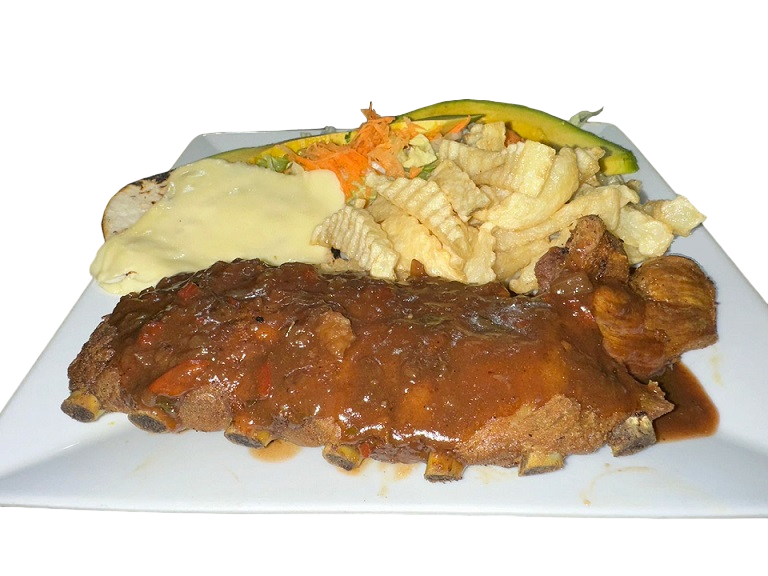
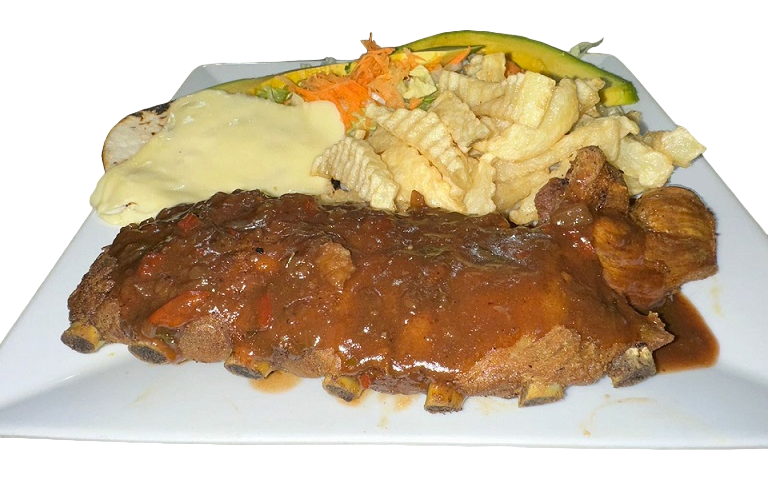
se actualizo la foto costillas por un tamaño mas apropiado

diff --git a/src/app/menus/menus.component.html b/src/app/menus/menus.component.html
@@ -10,7 +10,7 @@
 
       <div  id="carne-dia" class="card fixed-card">
         <div class="card-body card-content">
-          <h5 class="card-title"><b>Menú del día</b></h5>
+          <h5 class="card-title"><b>Menú día</b></h5>
           <p class="card-text">
             Cerdo o pechuga con salsa de piña.
           </p>
